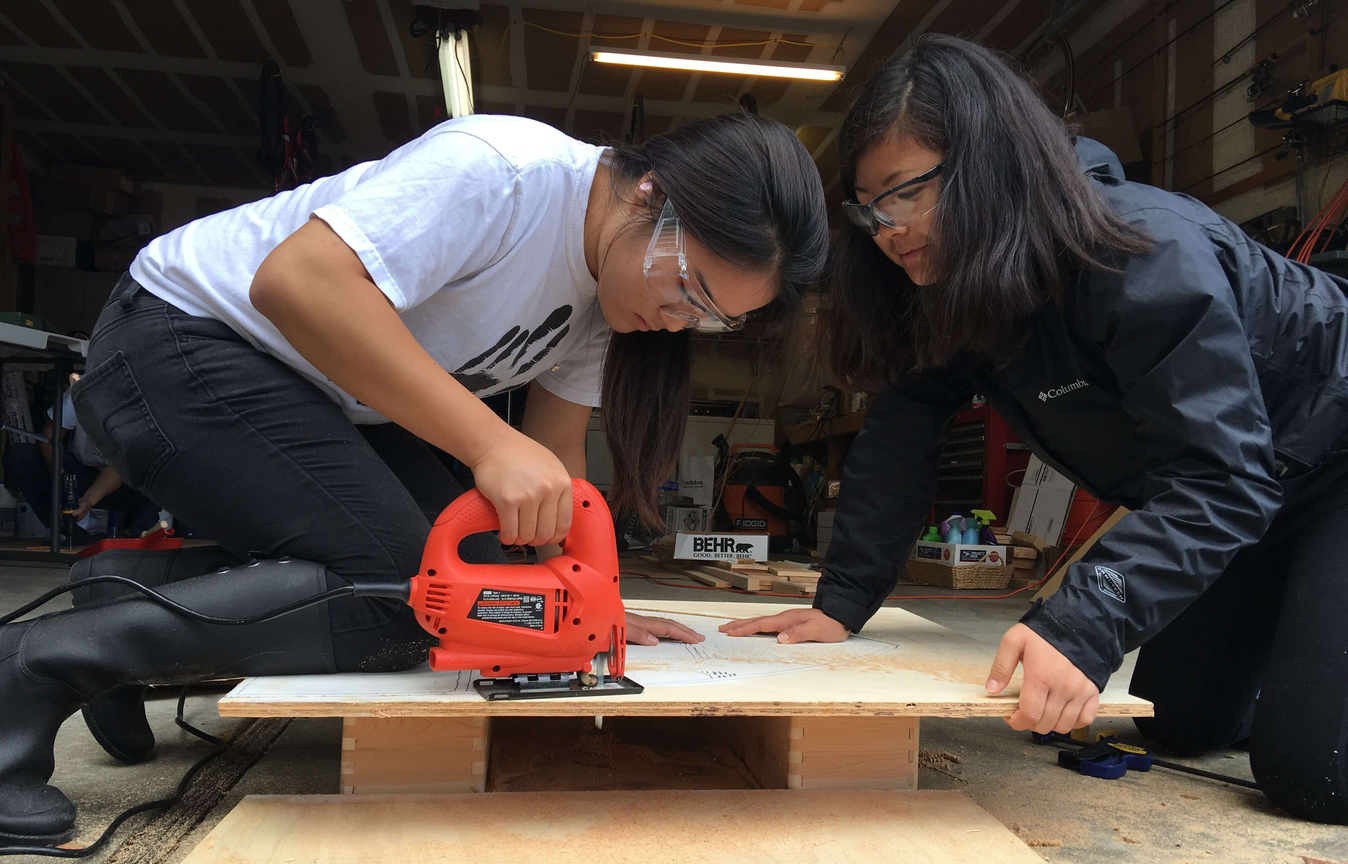
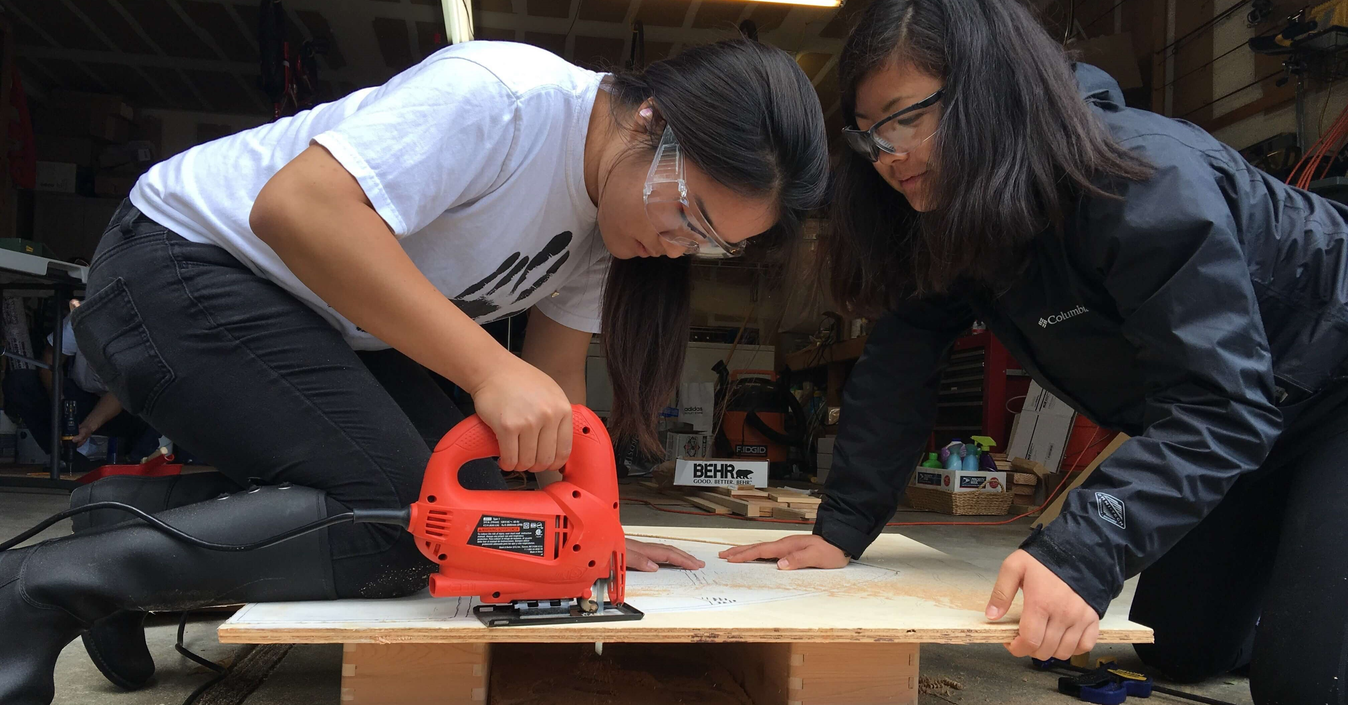
12/1/2017 update

diff --git a/about.html b/about.html
@@ -21,7 +21,7 @@
 
 <div class="aboutpage">
     <div id="opaqueBackground">
-        <img src="images/woodcutting2.jpg" alt="background" class="center" style="width:100%">
+        <img src="images/woodcutting3.jpg" alt="background" class="center" style="width:100%">
     </div>
     <div class="profimage">
         <img width="300" height="300" style="border-radius: 50%" src="images/toolted.jpg" alt="image" class="center">
